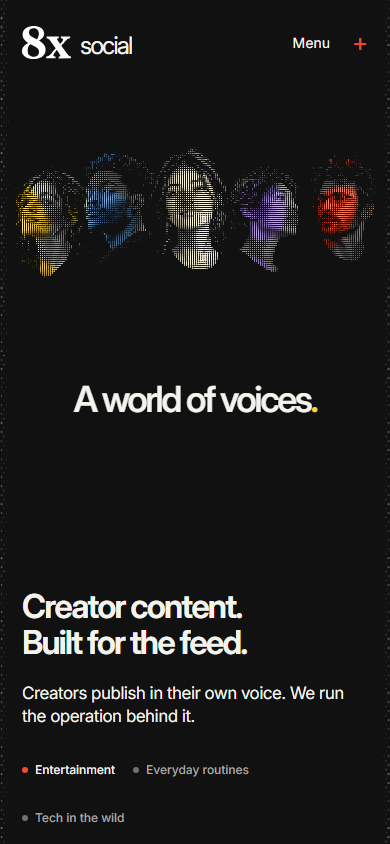
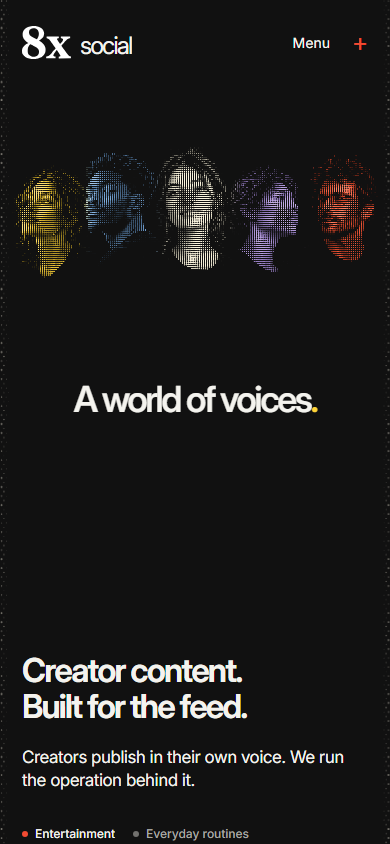
Remove deferred infinity section and begin hero transition earlier

diff --git a/components/family-footer.tsx b/components/family-footer.tsx
@@ -1,137 +1,8 @@
-'use client';
-
-import { useEffect, useRef } from 'react';
 import { Arrow } from './icons';
 import { links } from '@/lib/content';
-import mark from '@/lib/footer-mark.json';
-import { createInfinityCurrent } from '@/lib/infinity-current';
-
-const clamp = (x: number) => Math.max(0, Math.min(1, x));
-const ease = (x: number) => { const t = clamp(x); return t * t * t * (t * (t * 6 - 15) + 10); };
-const mix = (a: number, b: number, t: number) => a + (b - a) * t;
-const products = [
-  { name: 'Careers', href: 'https://8x.careers' }, { name: 'Sale' },
-  { name: 'Social', href: '#network' }, { name: 'Research' }, { name: 'Next', placeholder: true },
-];
 
 export function FamilyFooter() {
-  const root = useRef<HTMLElement>(null), stage = useRef<HTMLDivElement>(null), artwork = useRef<SVGSVGElement>(null);
-  const ink = useRef<SVGGElement>(null), depth = useRef<SVGGElement>(null), suffix = useRef<SVGPathElement>(null);
-  const solidMask = useRef<SVGLinearGradientElement>(null), printMask = useRef<SVGLinearGradientElement>(null);
-  const currentCanvas = useRef<HTMLCanvasElement>(null), printLayer = useRef<SVGGElement>(null);
-  useEffect(() => {
-    const journey = root.current!, content = stage.current!, el = artwork.current!, motion = matchMedia('(prefers-reduced-motion: reduce)');
-    let span = 0, top = 100, raf = 0, progress = 0, target = 0, last = 0;
-    let measured = false;
-    const canvas = currentCanvas.current!, current = createInfinityCurrent(canvas);
-    let visible = false, clock = 0, currentOpacity = 0, lastPaint = -1, scrollDirty = true;
-    const draw = () => {
-      // Lift the complete silhouette, turn it, then lay it onto the print plane.
-      // Every layer shares one transform, so the serif edges never scatter.
-      const turn = ease((progress - .18) / .36);
-      const lift = ease((progress - .07) / .16) * (1 - ease((progress - .46) / .14));
-      const reveal = ease((progress - .6) / .23);
-      const transform = `translate(${mix(280, 450, turn)} ${300 - lift * 18}) scale(${mix(1.64, 3, turn)} ${mix(1.64, 2.2, turn)}) rotate(${turn * 90}) translate(-93 -132)`;
-      ink.current!.setAttribute('transform', transform);
-      depth.current!.setAttribute('transform', transform);
-      depth.current!.setAttribute('opacity', String(lift));
-      // Three shallow registration layers compress together as the mark lands.
-      Array.from(depth.current!.children).forEach((layer, i) => {
-        const distance = (3 - i) * lift;
-        layer.setAttribute('transform', `translate(${distance * 1.1} ${distance * 1.8})`);
-      });
-      suffix.current!.setAttribute('opacity', String(1 - ease((progress - .05) / .12)));
-      const sweep = mix(-50, 950, reveal);
-      for (const mask of [solidMask.current!, printMask.current!]) {
-        mask.setAttribute('x1', String(sweep - 42)); mask.setAttribute('x2', String(sweep + 42));
-      }
-      journey.dataset.progress = progress.toFixed(3);
-      journey.dataset.phase = progress < .07 ? 'original' : progress < .18 ? 'lift' : progress < .6 ? 'turn' : progress < .83 ? 'impression' : 'settled';
-    };
-    const sample = () => {
-      if (motion.matches) return 1;
-      const rect = journey.getBoundingClientRect();
-      // Tall windows may reach the document end before the theoretical pin ends.
-      const available = Math.max(1, document.documentElement.scrollHeight - innerHeight - (rect.top + scrollY) + top);
-      const distance = Math.min(span, available);
-      journey.style.setProperty('--family-distance', `${distance}px`);
-      return span ? clamp((top - rect.top) / distance) : clamp((innerHeight * .8 - el.getBoundingClientRect().top) / (innerHeight * .65));
-    };
-    const tick = (time: number) => {
-      raf = 0;
-      if (document.hidden) { last = 0; journey.dataset.flowing = 'false'; return; }
-      if (scrollDirty) { target = sample(); scrollDirty = false; }
-      const dt = last ? Math.min(64, time - last) : 16; last = time;
-      const previousProgress = progress;
-      progress = motion.matches ? 1 : mix(progress, target, 1 - Math.exp(-dt / 85));
-      if (Math.abs(progress - target) < .0003) progress = target;
-      if (progress !== previousProgress) draw();
-      const running = Math.abs(progress - target) >= .0003;
-      journey.dataset.running = String(running);
-      const revealCurrent = current && progress >= .83 ? 1 : 0;
-      const previousOpacity = currentOpacity;
-      currentOpacity = motion.matches ? Number(revealCurrent) : mix(currentOpacity, Number(revealCurrent), 1 - Math.exp(-dt / 260));
-      if (Math.abs(currentOpacity - Number(revealCurrent)) < .001) currentOpacity = Number(revealCurrent);
-      const flowing = Boolean(current && visible && !motion.matches && currentOpacity > 0);
-      if (flowing) clock += dt / 1000;
-      if (currentOpacity !== previousOpacity) {
-        canvas.style.opacity = String(currentOpacity);
-        printLayer.current!.style.opacity = String(1 - currentOpacity);
-      }
-      // Native scroll remains independent; only the visible current keeps a loop.
-      if (current && currentOpacity > 0 && (motion.matches || time - lastPaint > (innerWidth <= 700 ? 30 : 15))) {
-        current.draw(motion.matches ? 1.6 : clock, !motion.matches); lastPaint = time;
-        canvas.dataset.frame = clock.toFixed(3);
-      }
-      journey.dataset.flowing = String(flowing);
-      if (running || flowing || currentOpacity !== Number(revealCurrent)) raf = requestAnimationFrame(tick); else last = 0;
-    };
-    const schedule = () => { scrollDirty = true; if (!raf) raf = requestAnimationFrame(tick); };
-    const measure = () => {
-      top = innerWidth <= 700 ? 82 : 110;
-      const stageHeight = content.getBoundingClientRect().height;
-      current?.resize(el.getBoundingClientRect().width);
-      span = !motion.matches && stageHeight + top + 20 < innerHeight ? innerHeight * 1.15 : 0;
-      journey.style.setProperty('--family-travel', `${span}px`);
-      journey.style.setProperty('--family-height', `${stageHeight}px`);
-      journey.style.setProperty('--family-top', `${top}px`);
-      journey.dataset.pinned = String(span > 0);
-      if (!measured) { progress = sample(); measured = true; }
-      draw(); journey.dataset.ready = 'true'; schedule();
-    };
-    const observer = new ResizeObserver(measure); observer.observe(el); observer.observe(content);
-    const visibility = new IntersectionObserver(([entry]) => { visible = entry.isIntersecting; schedule(); }, { threshold: 0 });
-    visibility.observe(el);
-    measure(); window.addEventListener('scroll', schedule, { passive: true }); window.addEventListener('resize', measure);
-    motion.addEventListener('change', measure); document.addEventListener('visibilitychange', schedule);
-    return () => { cancelAnimationFrame(raf); observer.disconnect(); visibility.disconnect(); window.removeEventListener('scroll', schedule); window.removeEventListener('resize', measure); motion.removeEventListener('change', measure); document.removeEventListener('visibilitychange', schedule); };
-  }, []);
-
   return <div className="family-ending">
-    <div className="family-seam" aria-hidden="true"><svg width="100%" height="72"><defs><pattern id="family-edge" width="8" height="72" patternUnits="userSpaceOnUse">{Array.from({ length: 9 }, (_, y) => <circle key={y} cx="4" cy={y * 8 + 2} r={5.8 * Math.pow(1 - y / 9, 1.3)} fill="#f34b32" />)}</pattern></defs><rect width="100%" height="72" fill="url(#family-edge)" /></svg></div>
-    <section id="family" className="family-journey" ref={root} aria-label="Explore the 8x family" data-running="false">
-      <div className="family-stage page-width" ref={stage}>
-        <div className="family-art" role="img" aria-label="The original 8 turns into a dotted infinity, with a continuous orange, violet and cyan current flowing around its loops.">
-          <img className="family-fallback" src="/footer/infinity.svg" alt="" width="900" height="600" />
-          <svg ref={artwork} viewBox="0 0 900 600" fill="#171922" aria-hidden="true">
-            <defs>
-              <linearGradient id="family-solid-gradient" ref={solidMask} gradientUnits="userSpaceOnUse" x1="-85" x2="-15" y1="0" y2="0"><stop stopColor="black" /><stop offset="1" stopColor="white" /></linearGradient>
-              <linearGradient id="family-print-gradient" ref={printMask} gradientUnits="userSpaceOnUse" x1="-85" x2="-15" y1="0" y2="0"><stop stopColor="white" /><stop offset="1" stopColor="black" /></linearGradient>
-              <mask id="family-solid-mask" maskUnits="userSpaceOnUse" x="0" y="0" width="900" height="600"><rect width="900" height="600" fill="url(#family-solid-gradient)" /></mask>
-              <mask id="family-print-mask" maskUnits="userSpaceOnUse" x="0" y="0" width="900" height="600"><rect width="900" height="600" fill="url(#family-print-gradient)" /></mask>
-            </defs>
-            <g mask="url(#family-solid-mask)"><g ref={depth} opacity="0">{[.08, .16, .24].map((opacity, i) => <path key={i} d={mark.eight} opacity={opacity} />)}</g><g ref={ink}><path d={mark.eight} /></g></g>
-            <path ref={suffix} d={mark.x} transform="translate(280 300) scale(1.64) translate(-93 -132)" />
-            <g ref={printLayer} style={{opacity: 1}} className="family-print-layer" mask="url(#family-print-mask)">{mark.dots.map(([a,b,r], i) => <circle key={i} cx={450-(b-132)*3} cy={300+(a-93)*2.2} r={r} />)}</g>
-          </svg>
-          <canvas ref={currentCanvas} className="family-current" width="900" height="600" aria-hidden="true" />
-        </div>
-        <div className="family-directory"><h2>Explore 8x</h2><ul>{products.map(product => <li key={product.name}>
-          {product.href ? <a href={product.href} aria-label={'8x ' + product.name}><img src="/8x.svg" alt="8x" width="386" height="264" /><span>{product.name}</span><Arrow /></a>
-            : <div className="family-product"><img src="/8x.svg" alt="8x" width="386" height="264" /><span>{product.name}</span>{product.placeholder && <small>Placeholder</small>}</div>}
-        </li>)}</ul></div>
-      </div>
-    </section>
     <footer id="contact" className="family-footer page-width" aria-label="8x Social footer">
       <div className="family-contact"><a className="family-brand" href="#network" aria-label="8x Social back to top"><img src="/8x.svg" alt="" width="386" height="264" /><span>social</span></a><a className="family-call" href={links.call}>Build your network.<Arrow /></a></div>
       <div className="family-information">

diff --git a/tests/family-footer.spec.ts b/tests/family-footer.spec.ts
@@ -1,139 +1,24 @@
-import { test, expect, type Page } from '@playwright/test';
+import { test, expect } from '@playwright/test';
 
-async function position(page: Page, p: number) {
-  await page.locator('#family').evaluate((el, progress) => {
-    const style = getComputedStyle(el), top = el.getBoundingClientRect().top + scrollY;
-    scrollTo({ top: top - parseFloat(style.getPropertyValue('--family-top')) + parseFloat(style.getPropertyValue('--family-distance')) * progress, behavior: 'instant' });
-  }, p);
-  await expect.poll(async () => Math.abs(Number(await page.locator('#family').getAttribute('data-progress')) - p)).toBeLessThan(.005);
-  await expect(page.locator('#family')).toHaveAttribute('data-running', 'false');
-}
-
-test('scroll reveals a real transformation, stable products and a separate stone footer', async ({ page }) => {
-  const errors: string[] = []; page.on('pageerror', e => errors.push(e.message));
-  await page.goto('/#family');
-  const journey = page.locator('#family');
-  await expect(journey).toHaveAttribute('data-pinned', 'true');
-  await expect(page.locator('.family-ending')).toHaveCSS('background-color', 'rgb(233, 229, 220)');
-  const images: string[] = [];
-  let productY = 0;
-  for (const [name, progress] of [['original', 0], ['lift', .24], ['turn', .5], ['impression', .735], ['infinity', .94]] as const) {
-    await position(page, progress);
-    const bounds = await page.locator('.family-directory').boundingBox();
-    if (name === 'original') productY = bounds!.y;
-    else expect(Math.abs(bounds!.y - productY)).toBeLessThan(1);
-    images.push(await page.locator('.family-art>svg').evaluate(el => el.outerHTML));
-    if (name === 'infinity') await expect(page.locator('.family-current')).toHaveCSS('opacity', '1');
-    await page.screenshot({ path: `docs/qa/footer-current-${name}.png` });
+test('map leads directly to the information footer on desktop and mobile', async ({page}) => {
+  await page.goto('/');
+  await expect(page.locator('.family-journey, .family-art, .family-current, .family-directory')).toHaveCount(0);
+  for (const width of [390,1920,2560]) {
+    await page.setViewportSize({width,height:1080});
+    await page.locator('#contact').scrollIntoViewIfNeeded();
+    await expect(page.locator('#contact').getByRole('link',{name:'Privacy',exact:true})).toBeVisible();
+    await expect(page.locator('#contact').getByRole('link',{name:'Build your network.'})).toBeVisible();
+    const gap=await page.evaluate(() => document.querySelector('.family-ending')!.getBoundingClientRect().top-document.querySelector('#reach-atlas')!.getBoundingClientRect().bottom);
+    expect(Math.abs(gap)).toBeLessThan(2);
+    expect(await page.evaluate(() => document.documentElement.scrollWidth<=innerWidth)).toBe(true);
+    if(width===1920) await page.screenshot({path:'docs/qa/footer-without-animation.png'});
   }
-  expect(new Set(images).size).toBe(5);
-  await expect(journey).toHaveAttribute('data-running', 'false');
-  await position(page, .5);
-  await expect(page.locator('.family-current')).toHaveCSS('opacity', '0');
-  // CSSOM may normalize the opacity style's whitespace after the crossfade.
-  const returned = await page.locator('.family-art>svg').evaluate(el => el.outerHTML);
-  expect(returned.replace(/style="[^"]*"/g,'') === images[2].replace(/style="[^"]*"/g,'')).toBe(true);
-  await page.locator('#contact').scrollIntoViewIfNeeded();
-  await expect(page.getByRole('contentinfo', { name: '8x Social footer' })).toBeVisible();
-  await expect(page.locator('#contact').getByRole('link', { name: 'Contact', exact: true })).toHaveAttribute('href', 'https://www.8x.social/en/book-call');
-  await expect(page.locator('.site-header')).toHaveAttribute('data-ending', 'true');
-  await expect(page.locator('.site-header')).toHaveCSS('background-color', 'rgb(233, 229, 220)');
-  expect(await page.locator('.family-directory li').count()).toBe(5);
-  expect(await page.locator('.family-directory a').count()).toBe(2);
-  await expect(journey).toHaveAttribute('data-running', 'false');
-  await page.screenshot({ path: 'docs/qa/footer-v3-contact.png' });
-  expect(errors).toEqual([]);
 });
 
-test('entrance waits at rest; settled dots move continuously without moving products', async ({ page }) => {
-  await page.goto('/#family');
-  const root = page.locator('#family');
-  await expect(root).toHaveAttribute('data-ready', 'true');
-  await position(page, .25);
-  await expect(root).toHaveAttribute('data-running', 'false');
-  const frame = await page.locator('.family-art>svg').evaluate(el => el.outerHTML);
-  await page.waitForTimeout(500);
-  expect(await page.locator('.family-art>svg').evaluate(el => el.outerHTML)).toBe(frame);
-  await position(page, .84); await expect(root).toHaveAttribute('data-phase', 'settled');
-  await expect(root).toHaveAttribute('data-flowing', 'true');
-  await expect(page.locator('.family-current')).toHaveCSS('opacity', '1');
-  const product = await page.locator('.family-directory').boundingBox();
-  const pixels = () => page.locator('.family-current').evaluate((canvas: HTMLCanvasElement) => { const data=canvas.getContext('2d')!.getImageData(0, 0, canvas.width, canvas.height).data; const sampled:number[]=[]; for(let i=0;i<data.length;i+=64) sampled.push(data[i],data[i+1],data[i+2],data[i+3]); return sampled; });
-  const first = await pixels();
-  await page.screenshot({path:'docs/qa/footer-current-flow-a.png'});
-  await page.waitForTimeout(1800);
-  const second = await pixels();
-  let coloured = 0, changed = 0, moved = 0, opaque = 0;
-  for(let i=0;i<first.length;i+=4) {
-    if (second[i+3]>180) opaque++;
-    if (second[i+3]>180 && Math.max(second[i],second[i+1],second[i+2])-Math.min(second[i],second[i+1],second[i+2])>70) coloured++;
-    if (Math.abs(first[i]-second[i])+Math.abs(first[i+1]-second[i+1])+Math.abs(first[i+2]-second[i+2])>90) changed++;
-    if (Math.abs(first[i+3]-second[i+3])>100) moved++;
-  }
-  // A small moving accent, never an all-over rainbow.
-  expect(coloured).toBeGreaterThan(30);
-  expect(coloured / opaque).toBeLessThan(.18);
-  expect(changed).toBeGreaterThan(100);
-  expect(moved).toBeGreaterThan(60);
-  expect(await page.locator('.family-directory').boundingBox()).toEqual(product);
-  await page.screenshot({path:'docs/qa/footer-current-flow-b.png'});
-  await position(page, 1); await expect(root).toHaveAttribute('data-phase', 'settled');
-  await position(page, 0); await expect(root).toHaveAttribute('data-phase', 'original');
-  await expect(root).toHaveAttribute('data-flowing', 'false');
-  await expect(page.locator('.family-current')).toHaveCSS('opacity', '0');
-});
-
-test('current stops offscreen and freezes to a colourful still for reduced motion', async ({page}) => {
-  await page.goto('/#family'); await position(page,.94);
-  const root=page.locator('#family'), canvas=page.locator('.family-current');
-  await expect(root).toHaveAttribute('data-flowing','true');
-  await page.emulateMedia({reducedMotion:'reduce'});
-  await expect(root).toHaveAttribute('data-flowing','false');
-  await expect(canvas).toHaveCSS('opacity','1');
-  const still=await canvas.evaluate((el:HTMLCanvasElement)=>el.toDataURL());
-  await page.waitForTimeout(400);
-  expect(await canvas.evaluate((el:HTMLCanvasElement)=>el.toDataURL())).toBe(still);
-  await page.emulateMedia({reducedMotion:'no-preference'});
-  await position(page,.94); await expect(root).toHaveAttribute('data-flowing','true');
-  await page.evaluate(()=>scrollTo({top:0,behavior:'instant'}));
-  await expect(root).toHaveAttribute('data-flowing','false');
-  await expect(root).toHaveAttribute('data-running','false');
-  const stopped=await canvas.getAttribute('data-frame');
-  await page.waitForTimeout(400);
-  expect(await canvas.getAttribute('data-frame')).toBe(stopped);
-});
-
-test('entrance print geometry stays stable and finishes at the bottom of a tall window', async ({ page }) => {
-  await page.setViewportSize({width:1226,height:1302}); await page.goto('/#family');
-  const root=page.locator('#family'); await expect(root).toHaveAttribute('data-ready','true');
-  const dots=page.locator('.family-print-layer');
-  const geometry=await dots.innerHTML();
-  await position(page,.74);
-  expect(await dots.innerHTML()).toBe(geometry);
-  await page.evaluate(()=>scrollTo({top:document.documentElement.scrollHeight,behavior:'instant'}));
-  await expect(root).toHaveAttribute('data-phase','settled');
-  await expect(root).toHaveAttribute('data-running','false');
-  await expect(page.locator('#contact').getByRole('link',{name:'Privacy'})).toBeInViewport();
-  expect(await dots.innerHTML()).toBe(geometry);
-});
-
-test('footer remains readable on phones, reduced motion and without scripts', async ({ page, browser }) => {
-  await page.emulateMedia({ reducedMotion: 'reduce' }); await page.setViewportSize({ width: 390, height: 844 });
-  await page.goto('/#family');
-  await expect(page.locator('#family')).toHaveAttribute('data-pinned', 'false');
-  await expect(page.locator('#family')).toHaveAttribute('data-phase', 'settled');
-  await expect(page.locator('#family')).toHaveAttribute('data-running', 'false');
-  await page.screenshot({ path: 'docs/qa/footer-v3-mobile.png' });
-  await page.locator('#contact').scrollIntoViewIfNeeded();
-  await expect(page.locator('#contact').getByRole('link', { name: 'Privacy' })).toBeVisible();
-  await page.screenshot({ path: 'docs/qa/footer-v3-mobile-contact.png' });
-  for (const width of [320, 768, 1024, 1920, 2558]) {
-    await page.setViewportSize({ width, height: 1080 });
-    expect(await page.evaluate(() => document.documentElement.scrollWidth <= innerWidth)).toBe(true);
-  }
-  const context = await browser.newContext({ javaScriptEnabled: false });
-  const fallback = await context.newPage(); await fallback.goto('http://127.0.0.1:3091/#family');
-  await expect(fallback.locator('.family-fallback')).toBeVisible();
-  await expect(fallback.getByRole('link', { name: '8x Careers', exact: true })).toBeVisible();
+test('information footer remains available without JavaScript', async ({browser}) => {
+  const context=await browser.newContext({javaScriptEnabled:false});
+  const page=await context.newPage(); await page.goto('http://127.0.0.1:3091/#contact');
+  await expect(page.locator('#contact').getByRole('link',{name:'Privacy',exact:true})).toBeVisible();
+  await expect(page.locator('.family-journey')).toHaveCount(0);
   await context.close();
 });

diff --git a/tests/hero-viewport.spec.ts b/tests/hero-viewport.spec.ts
@@ -3,7 +3,8 @@ import { test, expect, type Page } from '@playwright/test';
 async function scene(page: Page, p: number) {
   await page.locator('.hero-photo-journey').evaluate((el, p) => {
     const s = getComputedStyle(el);
-    scrollTo({ top: el.getBoundingClientRect().top + scrollY - parseFloat(s.getPropertyValue('--hp-top')) + parseFloat(s.getPropertyValue('--hp-distance')) * p, behavior: 'instant' });
+    const lead = parseFloat(s.getPropertyValue('--hp-lead'));
+    scrollTo({ top: el.getBoundingClientRect().top + scrollY - parseFloat(s.getPropertyValue('--hp-top')) - lead + (parseFloat(s.getPropertyValue('--hp-distance')) + lead) * p, behavior: 'instant' });
   }, p);
 }
 
@@ -31,6 +32,21 @@ test('original hero fits desktops; five voices stay contained through mobile and
     if([1920,390,2560].includes(width)) await page.screenshot({path:`docs/qa/hero-voices-${width}.png`});
   }
   expect(errors).toEqual([]);
+});
+
+test('photo starts releasing dots before it reaches the header', async ({page}) => {
+  for (const [width,height] of [[1920,1080],[2560,1440],[390,844]]) {
+    await page.setViewportSize({width,height}); await page.goto('/');
+    const root=page.locator('.hero-photo-journey');
+    await expect(root).toHaveAttribute('data-ready','true');
+    await expect(root).toHaveAttribute('data-progress','0.000');
+    await page.evaluate(() => scrollTo({top:innerHeight*.4,behavior:'instant'}));
+    await expect.poll(async () => Number(await root.getAttribute('data-progress'))).toBeGreaterThan(.25);
+    const stage=(await page.locator('.hp-stage').boundingBox())!;
+    const header=(await page.locator('.site-header').boundingBox())!;
+    expect(stage.y).toBeGreaterThan(header.height+40);
+    if(width===1920) await page.screenshot({path:'docs/qa/hero-earlier-release.png'});
+  }
 });
 
 test('original pointer field reaches the shader and releases smoothly on exit',async({page})=>{

diff --git a/components/hero-photo-journey.tsx b/components/hero-photo-journey.tsx
@@ -20,10 +20,10 @@ export function HeroPhotoJourney() {
     const hero = section.closest<HTMLElement>('.hero')!;
     const motion = matchMedia('(prefers-reduced-motion: reduce)');
     let renderer: RasterEngine | undefined, frame = 0, ready = false, disposed = false, visible = false;
-    let top = 96, height = 900, sourceHeight = 400, distance = 1100;
+    let top = 96, height = 900, sourceHeight = 400, distance = 1100, lead = 0;
     const render = () => {
       frame = 0;
-      const progress = motion.matches ? 0 : Math.max(0, Math.min(1, (top - section.getBoundingClientRect().top) / distance));
+      const progress = motion.matches ? 0 : Math.max(0, Math.min(1, (top + lead - section.getBoundingClientRect().top) / (distance + lead)));
       const scene = Math.min(1, progress / .84);
       section.dataset.progress = scene.toFixed(3);
       const text = smooth(.76, .98, scene);
@@ -46,6 +46,10 @@ export function HeroPhotoJourney() {
       hero.style.setProperty('--hero-header-height', `${top}px`);
       hero.style.setProperty('--hero-photo-height', `${sourceHeight}px`);
       distance = Math.max(height * 1.35, 450);
+      // Include the photo's approach to the header in the existing choreography.
+      // The first dots release around the middle of the viewport, before pinning.
+      lead = Math.max(0, innerHeight - top - sourceHeight);
+      section.style.setProperty('--hp-lead', `${lead}px`);
       section.style.setProperty('--hp-top', `${top}px`);
       section.style.setProperty('--hp-height', `${height}px`);
       section.style.setProperty('--hp-source-height', `${sourceHeight}px`);

diff --git a/docs/RELEASE-2026-09-19.md b/docs/RELEASE-2026-09-19.md
@@ -1,0 +1,7 @@
+# September 19: simpler ending and earlier hero transition
+
+User requested removing the final animated 8x/product-family section for now and pushing the changes to Git. The information footer remains directly after the original orange map. No replacement infinity concept is implemented; existing artwork resources stay available for later work.
+
+Hero progress now includes the yellow photograph's approach to its sticky position. Dot release begins before the photo reaches the header, while the opening composition stays unchanged and the five-colour portrait endpoint retains its original scroll position. Cursor interaction, native scroll/reverse, and reduced-motion/no-JS fallbacks remain intact.
+
+Validation: production build passes. All seven focused hero/footer checks pass across the initial run and the corrected early-onset test rerun. Viewport coverage includes 1920x1080, 2560x1440, ultrawide, tablet, mobile and short landscape. Reviewed screenshots of the early release and map-to-footer layout. The initial onset assertion sampled too early; it now verifies visible dot release after 40% of a viewport of scroll, with the image still below the header.

diff --git a/AGENTS.md b/AGENTS.md
@@ -1,3 +1,5 @@
+September 19 update: user requested removing the final animated 8x/product-family section for now, keeping the information footer, starting the hero dot transition earlier, and pushing to Git. The footer now follows the orange map directly. Hero progress includes the photo approach before sticky positioning, preserving the original endpoint, cursor wave and portrait colours. Future infinity design remains deferred.
+
 # 8x Social Minimal
 
 September 18 release authorization: user explicitly requested pushing all of today's and yesterday's implementation work to `main` so Vercel deploys it. This supersedes the historical local-only/checkpoint restrictions below for this release. Includes the previous polish checkpoint plus continuous Services playback, comparison entry ink reveal, pinned dashboard, and original carbon hero with bottom-aligned photo and cursor wave. The new infinity/product-family ending is still concept exploration, deferred until after deployment; do not implement any generated footer proposal without approval. Future changes stay local unless the user requests another push. See docs/RELEASE-2026-09-18.md.

diff --git a/design/CURRENT-DIRECTION.md b/design/CURRENT-DIRECTION.md
@@ -1,3 +1,5 @@
+September 19 update: user requested removing the final animated 8x/product-family section for now, keeping the information footer, starting the hero dot transition earlier, and pushing to Git. The footer now follows the orange map directly. Hero progress includes the photo approach before sticky positioning, preserving the original endpoint, cursor wave and portrait colours. Future infinity design remains deferred.
+
 # Current design direction
 
 September 18 release: publish existing implementation work to `main` for Vercel per explicit user request. New shared infinity/product-family footer proposals remain unapproved and deferred until after this release. Preserve the current implemented footer for this deployment. See `docs/RELEASE-2026-09-18.md`; historical no-push instructions below are superseded for this release only.

diff --git a/README.md b/README.md
@@ -1,3 +1,5 @@
+September 19 update: user requested removing the final animated 8x/product-family section for now, keeping the information footer, starting the hero dot transition earlier, and pushing to Git. The footer now follows the orange map directly. Hero progress includes the photo approach before sticky positioning, preserving the original endpoint, cursor wave and portrait colours. Future infinity design remains deferred.
+
 # 8x Social Minimal
 
 September 18 release: user authorized publishing the previous polish checkpoint and all subsequent local implementation work to `main` for Vercel. Current behavior and scope are summarized in `docs/RELEASE-2026-09-18.md`. Older local-only and main-unchanged notes below describe historical checkpoints. The replacement infinity footer remains a design exploration, not an implemented change.
